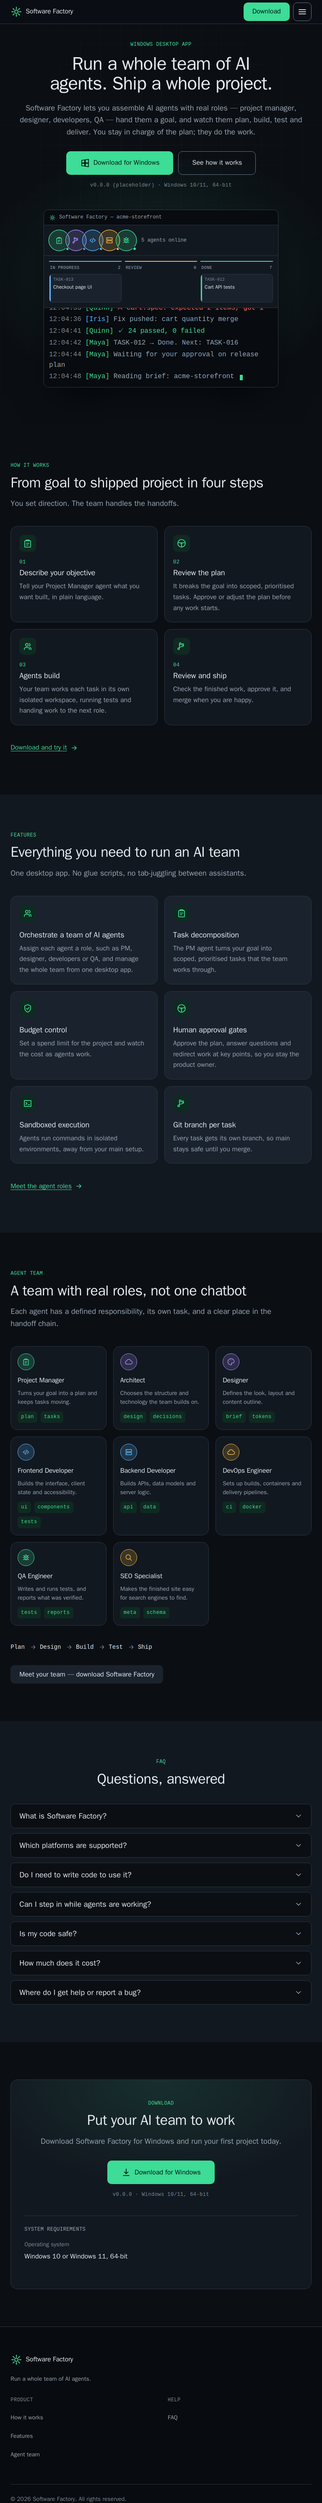
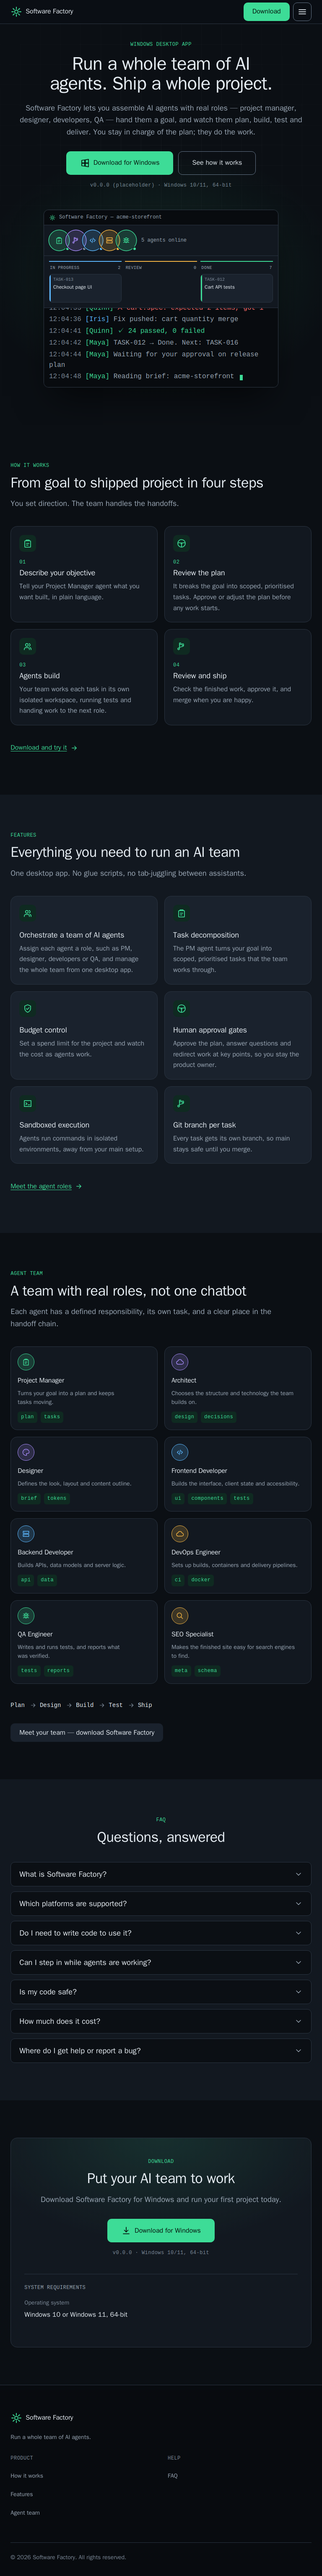
TASK-008: I fixed BUG-001, BUG-002 and BUG-003 from `qa/report.md`. BUG-004 (place… [truncated 224 bytes]

diff --git a/tests/e2e/site.spec.ts b/tests/e2e/site.spec.ts
@@ -1,6 +1,6 @@
 import { test, expect, type ConsoleMessage, type Page, type Response } from '@playwright/test';
 import AxeBuilder from '@axe-core/playwright';
-import { mkdirSync } from 'node:fs';
+import { mkdirSync, readFileSync } from 'node:fs';
 
 const WIDTHS = [360, 768, 1280] as const;
 const MOBILE_MAX = 1023;
@@ -166,6 +166,48 @@ test.describe('reduced motion', () => {
     const log = page.locator('.am-log__lines:visible').first();
     const before = await log.innerText();
     await expect.poll(() => log.innerText(), { timeout: 5000 }).not.toBe(before);
+  });
+
+  test('no-preference: log lines appear in script order', async ({ page }) => {
+    await page.emulateMedia({ reducedMotion: 'no-preference' });
+    await page.setViewportSize({ width: 1280, height: 800 });
+    await page.goto('/');
+    const msgs = () => page.locator('.am-log__lines:visible').first().locator('.am-msg').allInnerTexts();
+    const initial = await msgs();
+    expect(initial.length).toBeGreaterThan(6);
+    await expect.poll(async () => (await msgs()).join('|'), { timeout: 6000 }).not.toBe(initial.join('|'));
+    const after = await msgs();
+    const n = initial.length;
+    const shift = initial.indexOf(after[0]);
+    expect(shift).toBeGreaterThan(0);
+    expect(after).toEqual(initial.map((_, i) => initial[(i + shift) % n]));
+  });
+});
+
+test.describe('production CSP', () => {
+  test('no CSP violations with the nginx Content-Security-Policy applied', async ({ page }) => {
+    const conf = readFileSync('nginx.conf', 'utf8');
+    const csp = conf.match(/Content-Security-Policy "([^"]+)"/)?.[1];
+    expect(csp).toBeTruthy();
+    await page.route('**/*', async (route) => {
+      const response = await route.fetch();
+      await route.fulfill({ response, headers: { ...response.headers(), 'content-security-policy': csp as string } });
+    });
+    const violations: string[] = [];
+    page.on('console', (m) => {
+      if (/content security policy|refused to/i.test(m.text())) violations.push(m.text());
+    });
+    await page.setViewportSize({ width: 1280, height: 800 });
+    await page.goto('/');
+    await page.waitForLoadState('load');
+    await page.waitForTimeout(1500);
+    expect(violations).toEqual([]);
+    const widths = await page.locator('.am-desktop .am-fill').evaluateAll((els) =>
+      els.map((e) => getComputedStyle(e).getPropertyValue('--p').trim()),
+    );
+    expect(widths.every((w) => w !== '')).toBe(true);
+    const streamed = await page.evaluate(() => document.querySelector('.am-log__lines')?.classList.contains('am-streaming'));
+    expect(streamed).toBe(true);
   });
 });
 

diff --git a/src/scripts/app-mock.js b/src/scripts/app-mock.js
@@ -1,0 +1,57 @@
+(function () {
+  var fig = document.querySelector('.am');
+  if (!fig) return;
+  var box = fig.querySelector('.am-desktop');
+  if (box) {
+    var width = Number(box.getAttribute('data-design-width'));
+    var setScale = function () {
+      box.style.setProperty('--mock-scale', String(box.clientWidth / width));
+    };
+    setScale();
+    if ('ResizeObserver' in window) new ResizeObserver(setScale).observe(box);
+  }
+  var reduce = window.matchMedia('(prefers-reduced-motion: reduce)');
+  var pad = function (n) { return (n < 10 ? '0' : '') + n; };
+  var toSec = function (t) { var p = t.split(':'); return p[0] * 3600 + p[1] * 60 + Number(p[2]); };
+  var toTime = function (n) { n = n % 86400; return pad(Math.floor(n / 3600)) + ':' + pad(Math.floor(n / 60) % 60) + ':' + pad(n % 60); };
+  var stream = function (ol) {
+    var rows = Array.prototype.slice.call(ol.children);
+    var deltas = rows.map(function (li, i) {
+      var d = i ? toSec(li.firstElementChild.textContent) - toSec(rows[i - 1].firstElementChild.textContent) : 4;
+      return d > 0 ? d : 4;
+    });
+    var clock = toSec(rows[rows.length - 1].firstElementChild.textContent);
+    var caret = ol.querySelector('.am-caret');
+    var step = 0;
+    if (ol.classList.contains('am-log__lines--compact') && ol.offsetHeight) {
+      ol.style.height = ol.offsetHeight + 'px';
+    }
+    ol.classList.add('am-streaming');
+    var next = function () {
+      if (reduce.matches) return;
+      if (fig.hasAttribute('data-paused') || document.hidden || !ol.offsetParent) return;
+      var first = ol.firstElementChild;
+      var gap = parseFloat(getComputedStyle(ol).rowGap) || 0;
+      var h = first.offsetHeight + gap;
+      clock += deltas[step % deltas.length];
+      first.firstElementChild.textContent = toTime(clock);
+      step++;
+      ol.appendChild(first);
+      if (caret) first.appendChild(caret);
+      var opts = { duration: 380, easing: 'ease-out' };
+      Array.prototype.forEach.call(ol.children, function (li) {
+        li.animate([{ transform: 'translateY(' + h + 'px)' }, { transform: 'none' }], opts);
+      });
+      first.animate([{ opacity: 0 }, { opacity: 1 }], opts);
+    };
+    window.setInterval(next, 1500);
+  };
+  if (!reduce.matches) {
+    Array.prototype.forEach.call(fig.querySelectorAll('.am-log__lines'), stream);
+  }
+  if ('IntersectionObserver' in window) {
+    new IntersectionObserver(function (entries) {
+      fig.toggleAttribute('data-paused', !entries[0].isIntersecting);
+    }).observe(fig);
+  }
+})();

diff --git a/src/styles/appmock.css b/src/styles/appmock.css
@@ -347,6 +347,28 @@
   transform: scaleX(var(--p));
   transform-origin: left;
 }
+.am-fill[data-p="0"] { --p: 0; }
+.am-fill[data-p0="0"] { --p0: 0; }
+.am-fill[data-p="10"] { --p: 0.1; }
+.am-fill[data-p0="10"] { --p0: 0.1; }
+.am-fill[data-p="20"] { --p: 0.2; }
+.am-fill[data-p0="20"] { --p0: 0.2; }
+.am-fill[data-p="30"] { --p: 0.3; }
+.am-fill[data-p0="30"] { --p0: 0.3; }
+.am-fill[data-p="40"] { --p: 0.4; }
+.am-fill[data-p0="40"] { --p0: 0.4; }
+.am-fill[data-p="50"] { --p: 0.5; }
+.am-fill[data-p0="50"] { --p0: 0.5; }
+.am-fill[data-p="60"] { --p: 0.6; }
+.am-fill[data-p0="60"] { --p0: 0.6; }
+.am-fill[data-p="70"] { --p: 0.7; }
+.am-fill[data-p0="70"] { --p0: 0.7; }
+.am-fill[data-p="80"] { --p: 0.8; }
+.am-fill[data-p0="80"] { --p0: 0.8; }
+.am-fill[data-p="90"] { --p: 0.9; }
+.am-fill[data-p0="90"] { --p0: 0.9; }
+.am-fill[data-p="100"] { --p: 1; }
+.am-fill[data-p0="100"] { --p0: 1; }
 .am-add {
   margin: 12px;
   height: 40px;

diff --git a/README.md b/README.md
@@ -1,0 +1,50 @@
+# Software Factory website
+
+Static marketing site for the Software Factory Windows desktop app (a tool for managing a team of AI agents that completes a whole project). Built with Astro (static output), TypeScript and plain CSS; no client framework. Served by nginx in Docker.
+
+## Requirements
+
+Node.js 20+ and npm. Playwright's Chromium for the browser tests (`npm run test:setup`).
+
+## Commands
+
+| Command | What it does |
+| --- | --- |
+| `npm install` | Install dependencies |
+| `npm run dev` | Dev server at http://localhost:4321 |
+| `npm run build` | Production build into `dist/` |
+| `npm run preview` | Serve `dist/` locally (used by the browser tests) |
+| `npm test` | `build`, then `node --test tests/` (unit/static checks), then `playwright test` (browser, axe, CSP) |
+| `npm run test:e2e` | Browser tests only (needs a built `dist/`) |
+
+## Editing content
+
+All copy, links and the mock-app data live in `src/data/site.ts`. Components only format that data. Change text there and rebuild; no component edits are needed.
+
+- The `PLACEHOLDERS` list at the top of the file names every value the owner still has to confirm; each is also marked `TODO(PO)` next to its value.
+- The animated hero app mock reads `mock.*` in the same file. Progress values must be multiples of 10 (a test checks this, because bar widths are CSS classes, not inline styles).
+- Design tokens are in `src/styles/tokens.css`; the design spec is `docs/design.md`.
+
+## Docker
+
+```sh
+docker build -t software-factory-website .
+docker run --rm -p 8080:80 software-factory-website   # http://localhost:8080
+# or
+docker compose up --build
+```
+
+The image builds the site with Node and serves `dist/` with `nginx.conf`, which sets the security headers, including a strict CSP (`style-src 'self'`, no inline styles). The only inline script is the tiny `html.js` marker in `src/layouts/Base.astro`, allowed by hash. If you edit it, regenerate its `sha256` in `nginx.conf`; `tests/security-headers.test.mjs` fails when the hash drifts. Other scripts are bundled as external files.
+
+## Owner-supplied items (not yet provided)
+
+1. Real download URL: `download.url` is `https://example.com/downloads/software-factory-setup.exe`. Also set the real `download.version`; the hero currently shows "v0.0.0 (placeholder)".
+2. Screenshots: none supplied. The hero uses a CSS-only app mock. Real screenshots can be added under `public/` and wired in via `src/data/site.ts` and the components. A product-specific `public/og.png` (social preview) is also worth replacing.
+3. Product name, company name, tagline: `productName`, `companyName`, `tagline` are placeholders.
+4. Site URL: `siteUrl` is `https://example.com`; it drives the canonical URL, sitemap, robots.txt and structured data.
+5. Analytics: none is installed. Adding a provider requires updating the CSP in `nginx.conf` (`script-src`, `connect-src`) and the privacy wording.
+6. Copy to confirm: How it works steps, feature claims, FAQ answers (platforms, code safety, pricing, support), system requirements (RAM/storage), support/contact text.
+
+## QA
+
+`qa/report.md` holds the latest QA report, including the status of every bug. Full-page screenshots are written to `qa/screenshots/` by the browser tests.

diff --git a/qa/report.md b/qa/report.md
@@ -76,3 +76,15 @@ Reviewed at full resolution: hero at 1280px and 360px, the compact app mock and 
 - Chromium from `/ms-playwright`, Playwright 1.48.2, Node v20.18.0.
 - Test artifacts: `test-results/` and `playwright-report/` added to `.gitignore`.
 - `package.json`: added `@playwright/test@1.48.2` and `@axe-core/playwright@4.10.1`; `test` script now also runs `playwright test`; added `test:e2e`. The existing `playwright@1.48.2` devDependency was left in place.
+
+## TASK-008 resolution
+
+| Item | Status |
+| --- | --- |
+| BUG-001 (high) CSP blocks inline styles | **Fixed.** AppMock progress bars use `data-p` / `data-p0` attributes with CSS rules in `appmock.css`; no `style=` attributes in built HTML. The mock's script moved to `src/scripts/app-mock.js` and Astro now emits all scripts as external files (`assetsInlineLimit: 0`), so `nginx.conf` only needs the hash of the `html.js` marker. New e2e test applies the nginx CSP and asserts no violations, that bars have a `--p` value and that the stream starts. |
+| BUG-002 (medium) mock-data test anchor | **Fixed.** The test now anchors on the `log: [` block and normalises CRLF line endings. |
+| BUG-003 (low) 3+3+2 team grid at 768px | **Fixed.** Agent team grid is 2 columns from 640px and 4 from 1024px, so 8 cards fill evenly. |
+| BUG-004 (info) placeholder content | **Deferred to the product owner** (real download URL, version, product name need owner input). Documented in `README.md` and the `PLACEHOLDERS` list in `src/data/site.ts`. |
+| TASK-003 script-order assertion | **Added** (`log lines appear in script order`). |
+
+Results: `npm run build` OK; `node --test tests/` 38 pass, 0 fail; `npx playwright test` 18 passed.
